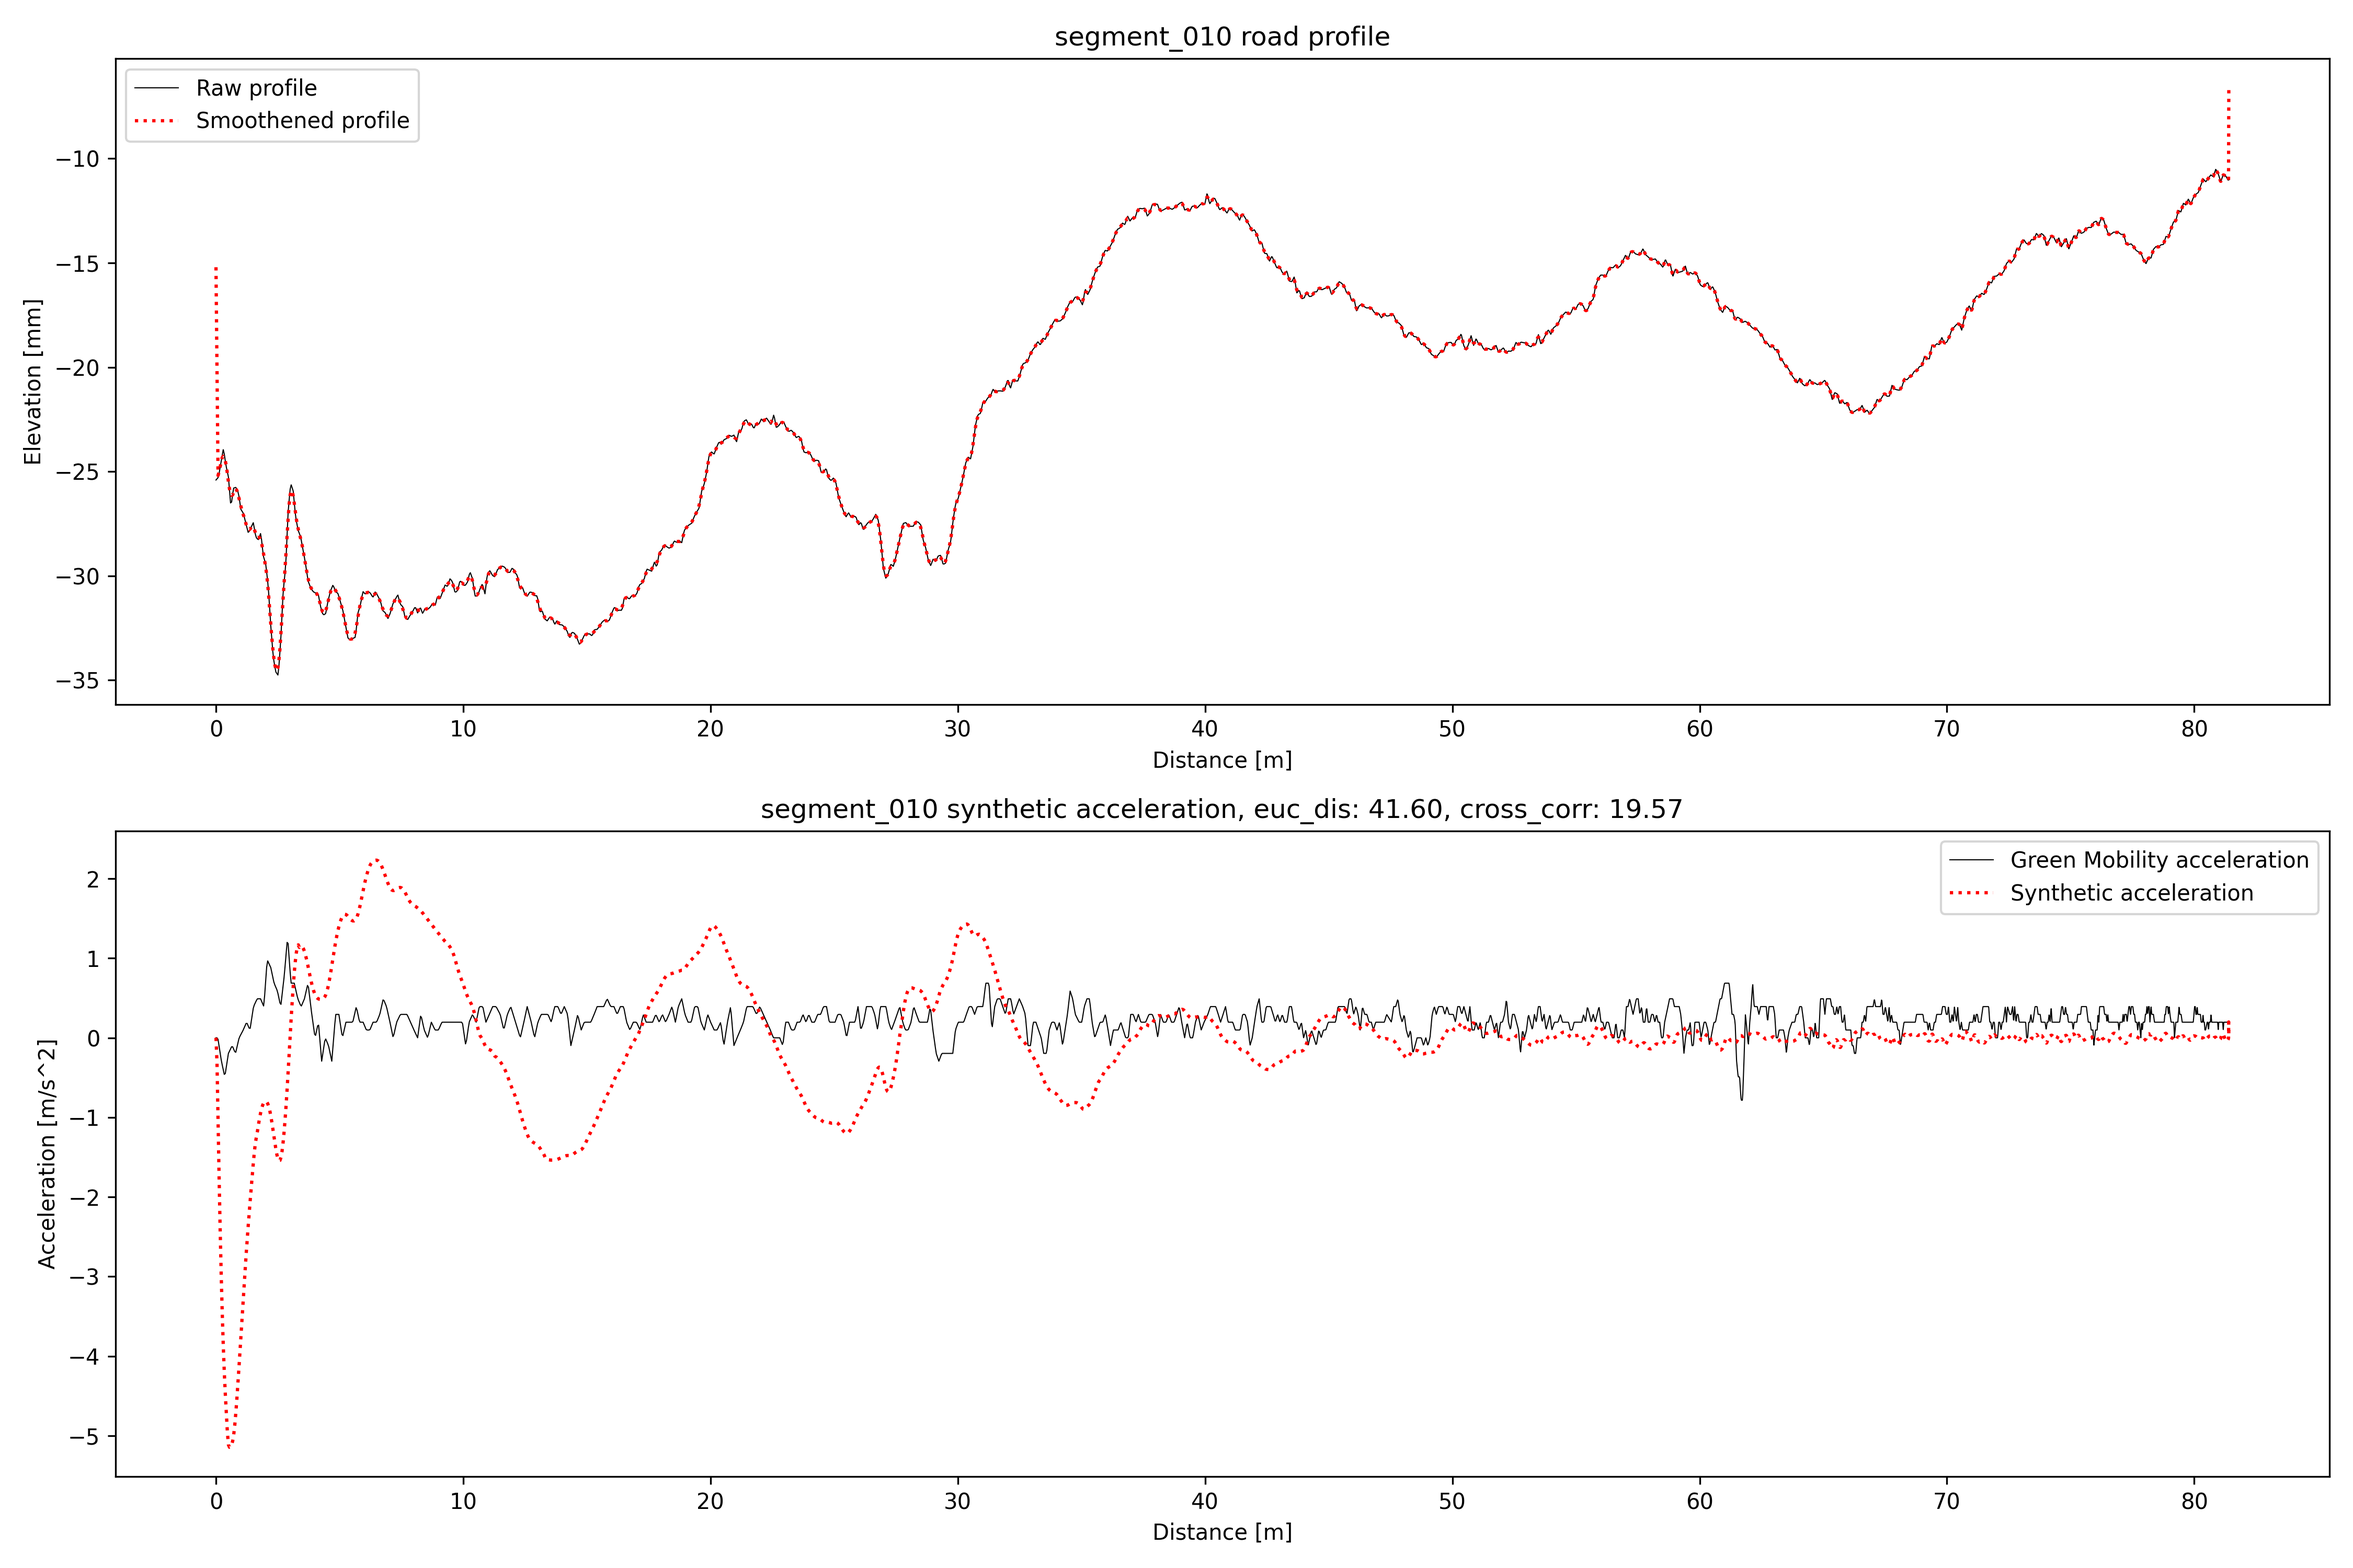
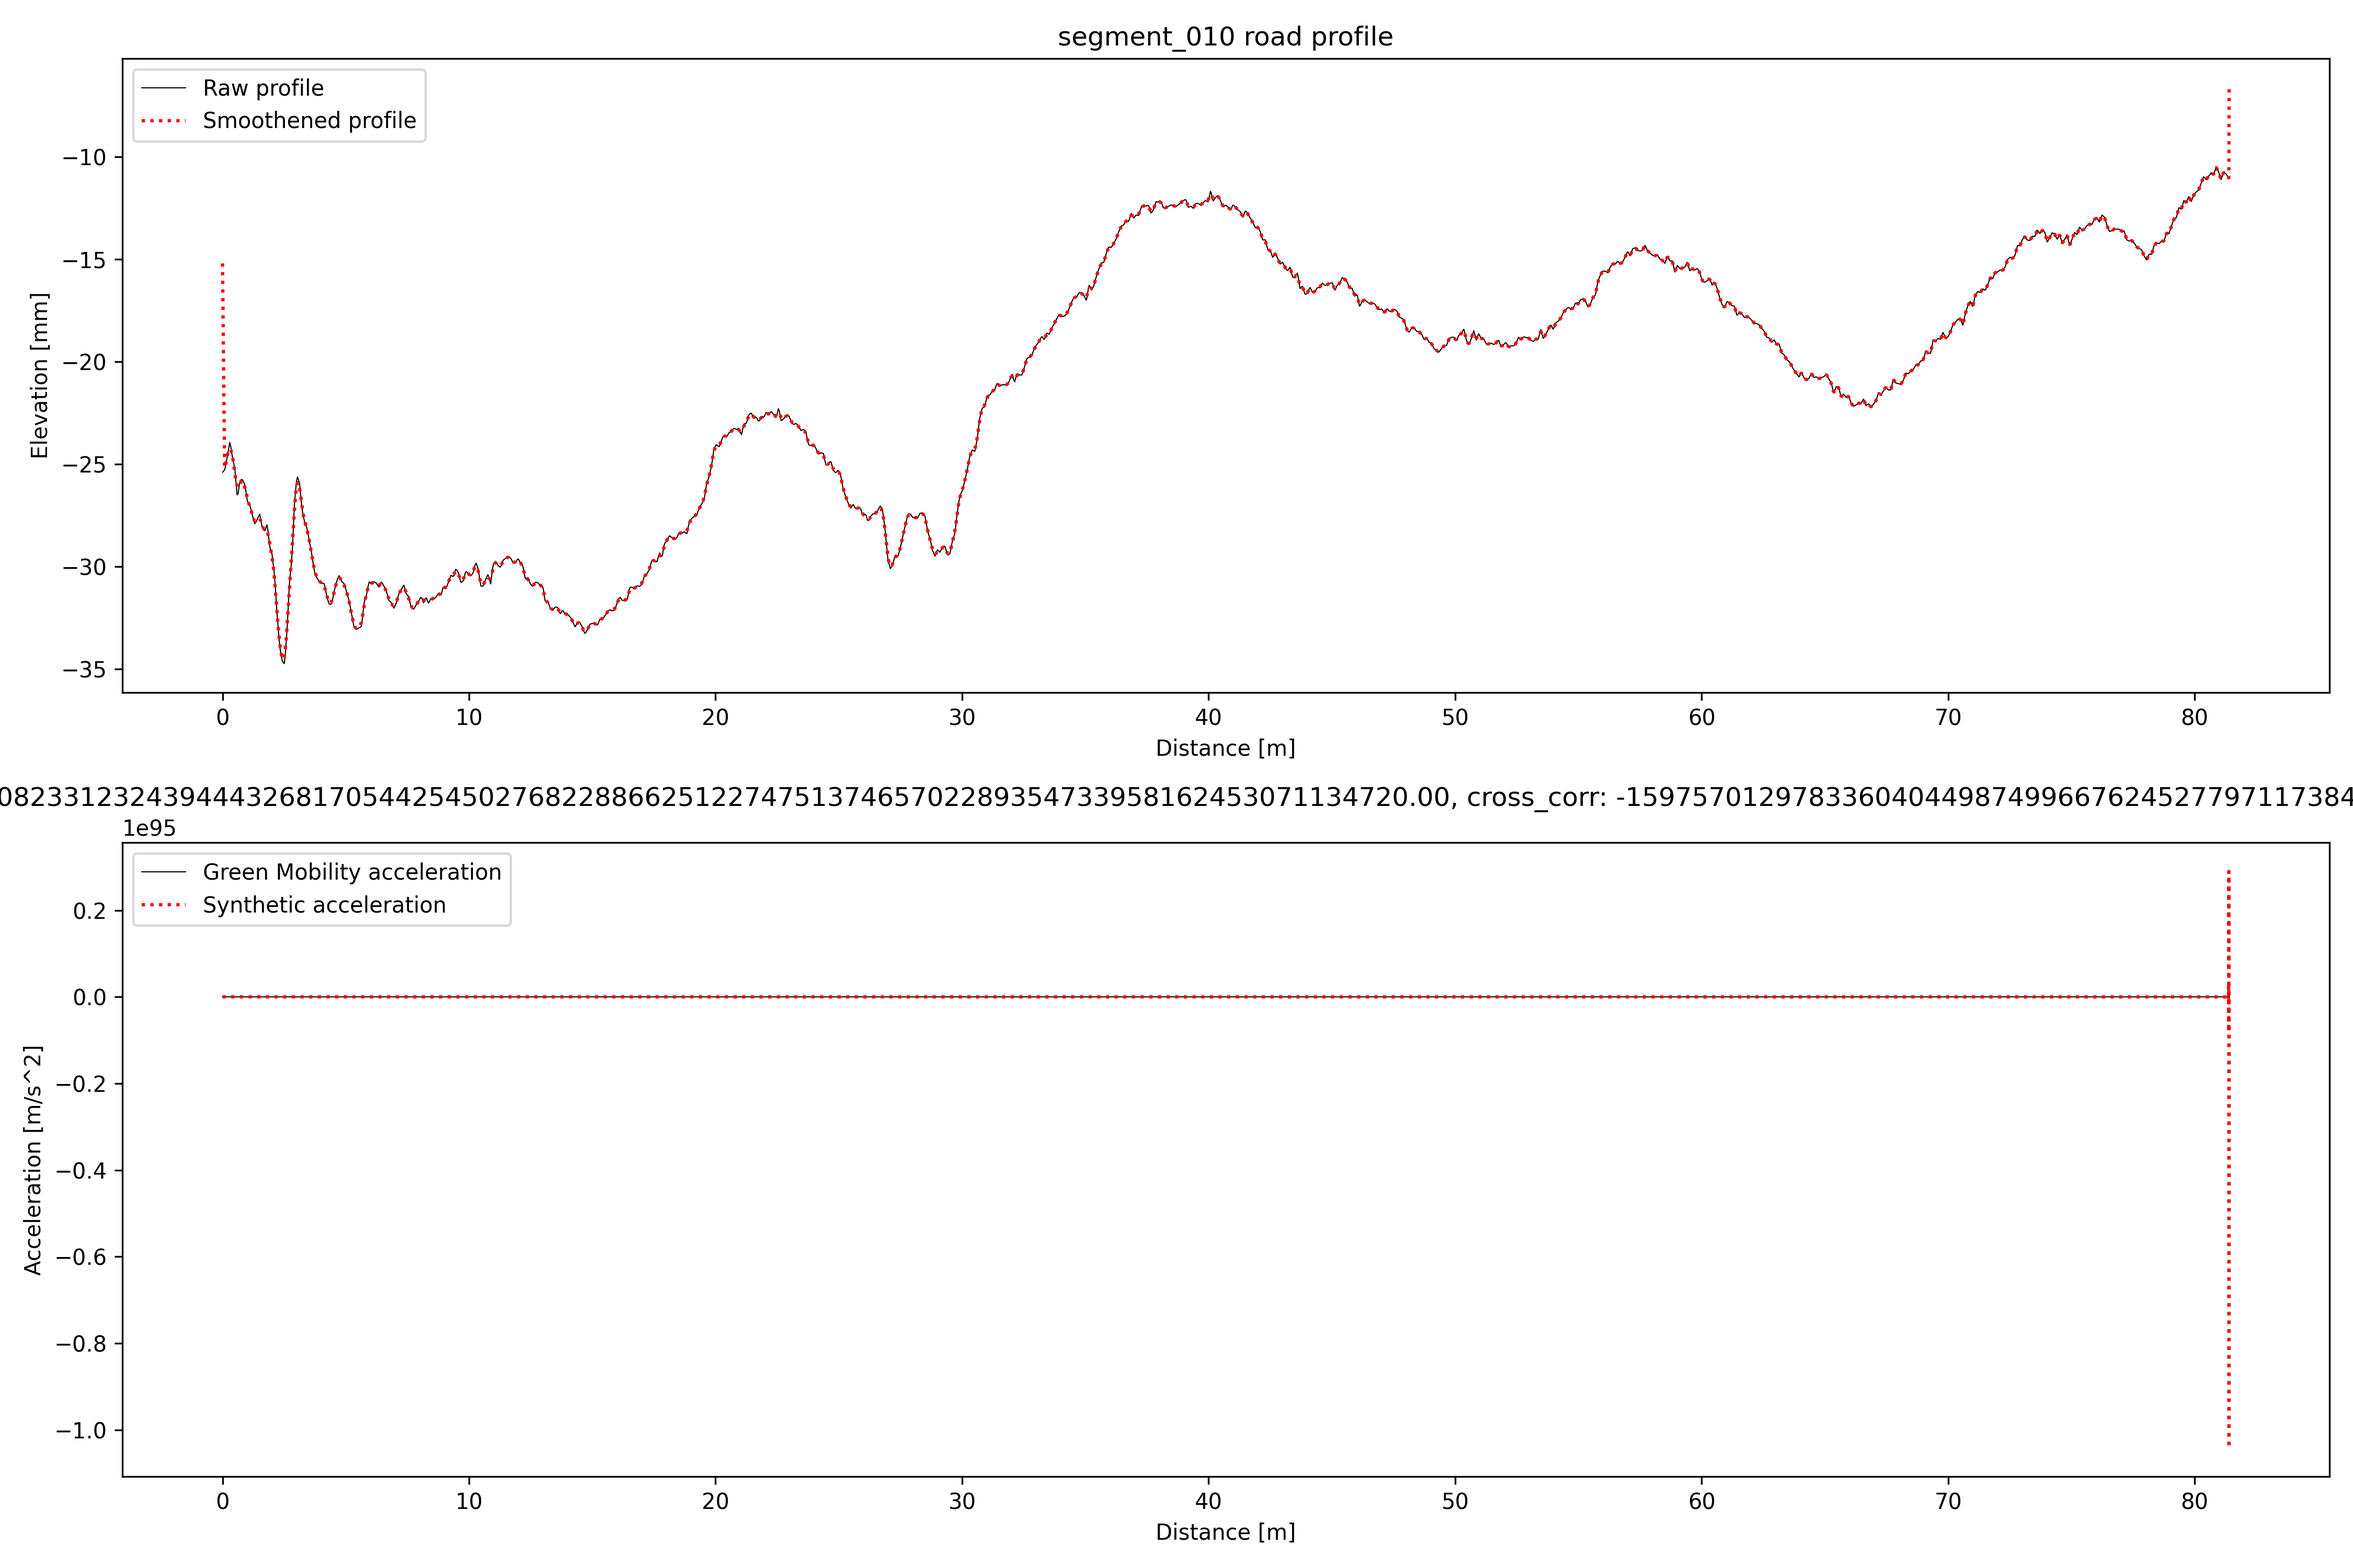
fix qcm (convert vel to m/s)

diff --git a/src/data/quarter_car_model.py b/src/data/quarter_car_model.py
@@ -24,8 +24,8 @@ class QuarterCarModel:
         # Load green mobility data
         self.gm_acc, self.gm_velocity = self.load_gm()
         
-        # TODO: Not sure about this conversion
-        self.gm_acc = (self.gm_acc * 9.80665)-9.80665 # Convert from g to m/s^2
+        self.gm_acc = (self.gm_acc - 1) * 9.80665 # Convert from g to m/s^2
+        self.gm_velocity = self.gm_velocity * 0.277778 # Convert from km/h to m/s
         
         # Calculate time interval
         self.dx = self.p79_distance[1] - self.p79_distance[0] # sampling interval [m]
